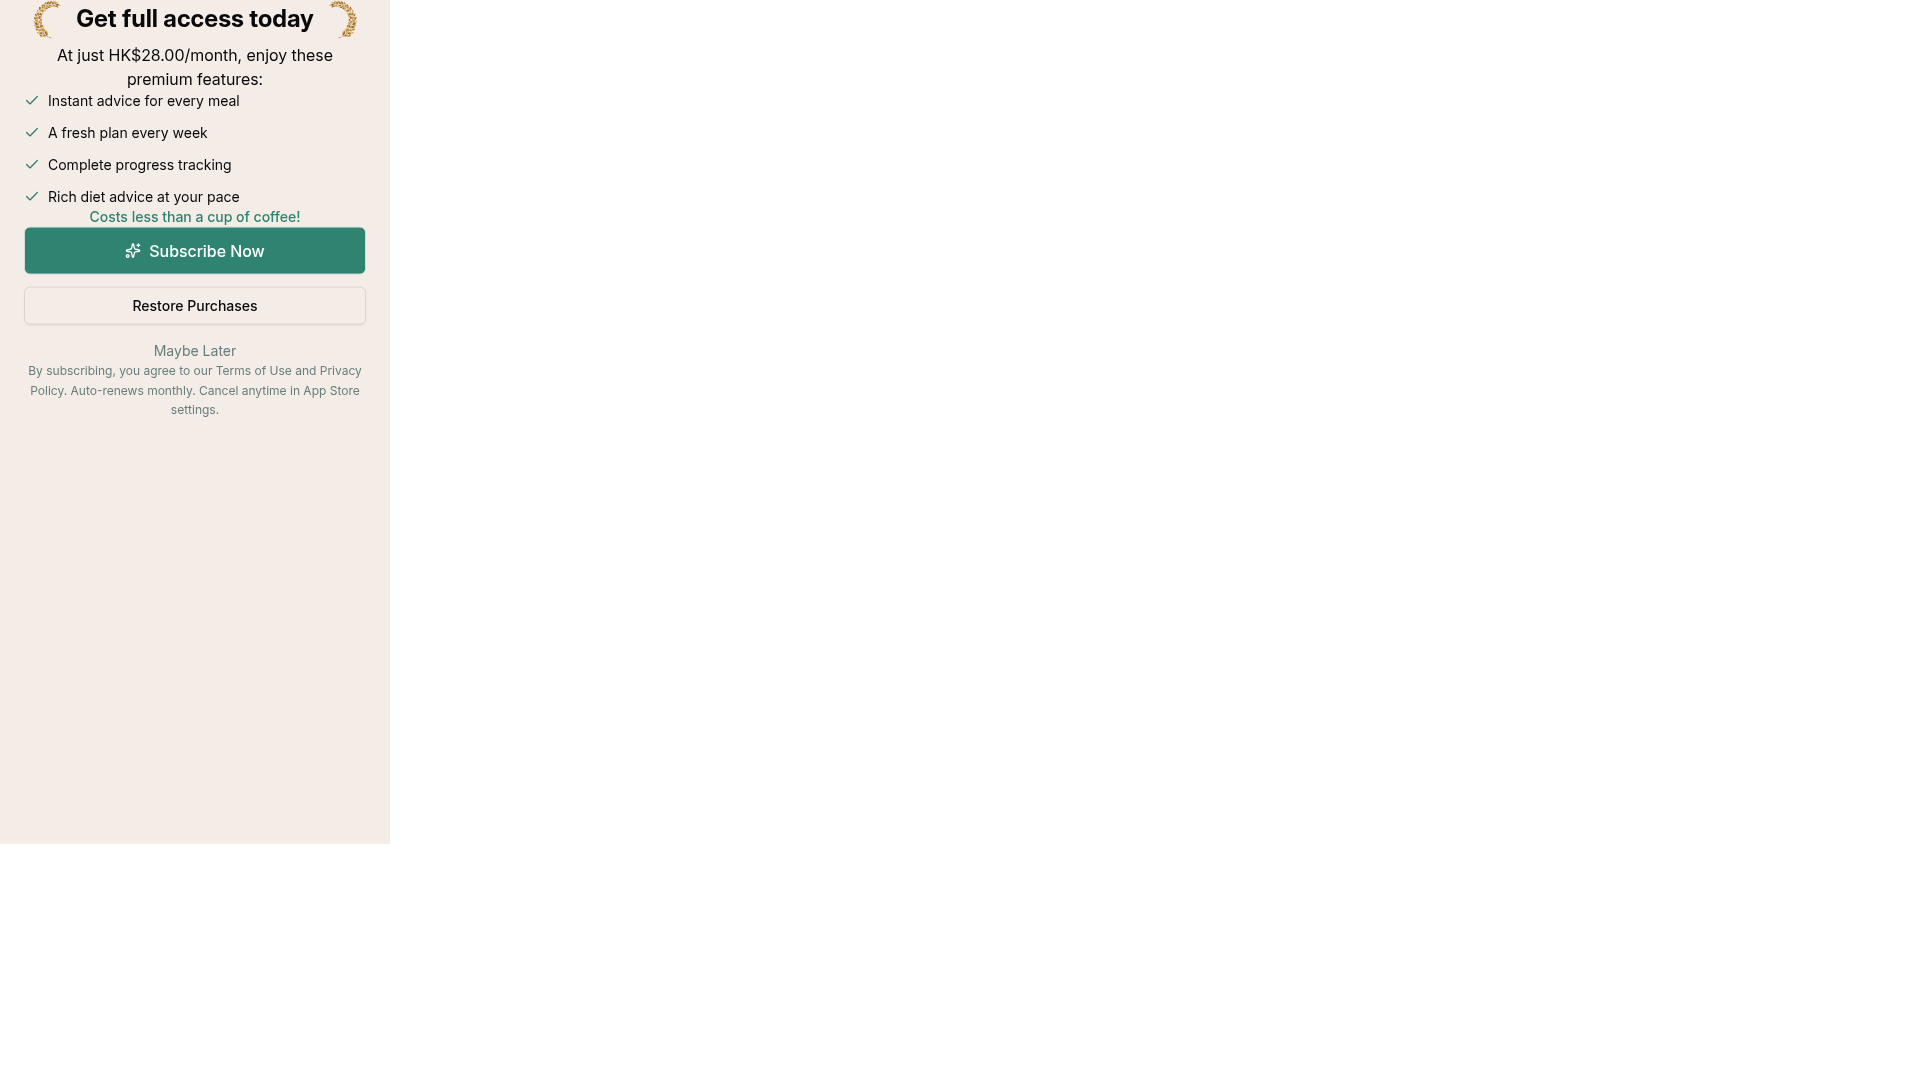
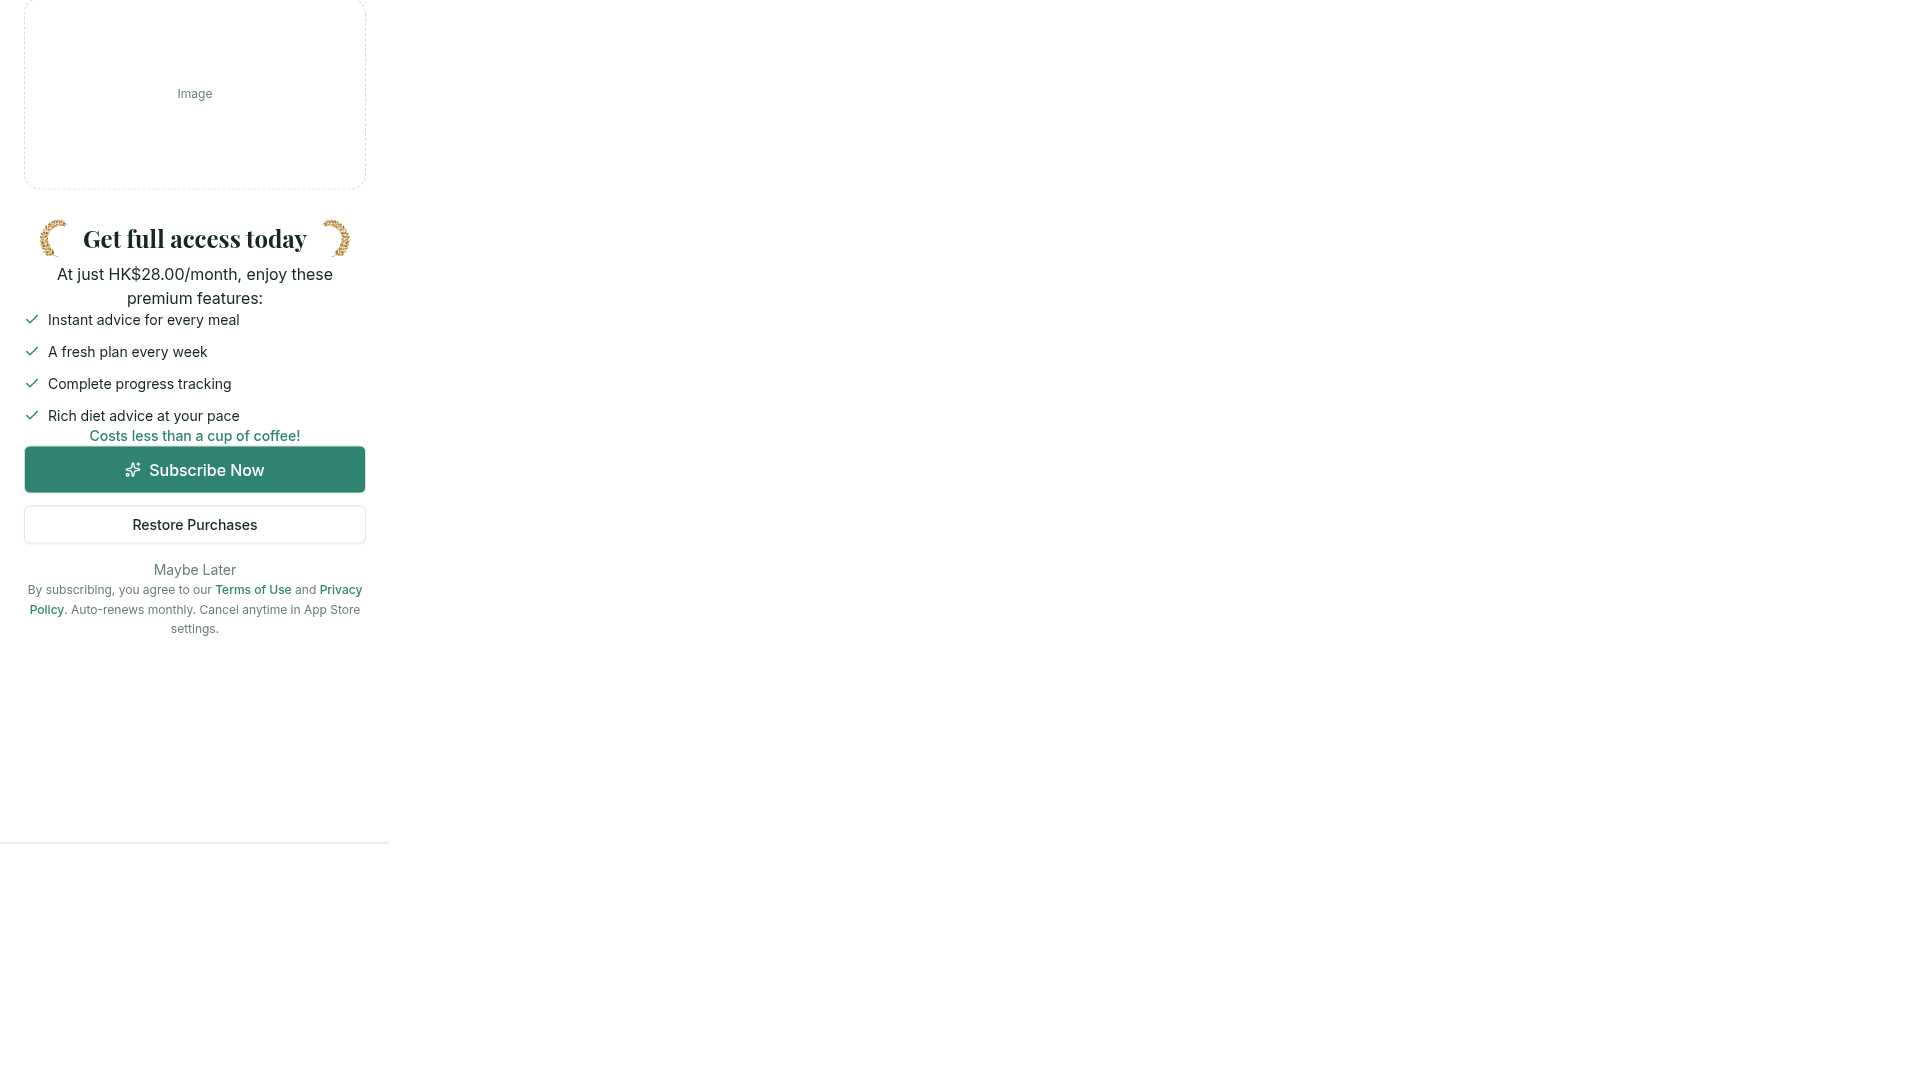
Update paywall modal with new styling and placeholder image
Update paywall modal styling, add a placeholder for the hero image, and adjust spacing.

Replit-Commit-Author: Agent
Replit-Commit-Session-Id: 5fb3db13-5617-42f7-b4ec-a9b90de9063e
Replit-Commit-Checkpoint-Type: full_checkpoint
Replit-Commit-Event-Id: 76b4fc88-e91a-4cac-9527-f6b0aa448901
Replit-Commit-Screenshot-Url: https://storage.googleapis.com/screenshot-production-us-central1/5322b358-f4bd-4c78-9be1-d8e103e57e4b/5fb3db13-5617-42f7-b4ec-a9b90de9063e/5LPq0w9
Replit-Helium-Checkpoint-Created: true

Changed region(s): [[0.0, 0.0, 0.1875, 0.4889], [0.0312, 0.5194, 0.1875, 0.5806]]

diff --git a/client/src/components/paywall-modal.tsx b/client/src/components/paywall-modal.tsx
@@ -111,10 +111,19 @@ export default function PaywallModal({ open, onClose, onPurchaseSuccess, lockApp
           animate={{ y: 0 }}
           exit={{ y: "100%" }}
           transition={{ type: "spring", damping: 28, stiffness: 280 }}
-          className="fixed inset-0 z-[100] bg-background overflow-y-auto"
+          className="fixed inset-0 z-[100] bg-popover text-popover-foreground overflow-y-auto"
           data-testid="paywall-modal"
         >
           <div className="min-h-full flex flex-col items-center px-6 pt-10 pb-10 max-w-md mx-auto">
+            <div
+              className="w-full rounded-2xl bg-muted/40 border border-dashed border-border flex items-center justify-center mb-6"
+              style={{ aspectRatio: "16 / 9" }}
+              data-testid="paywall-hero-image-slot"
+              aria-hidden="true"
+            >
+              <span className="text-xs text-muted-foreground">Image</span>
+            </div>
+
             <div className="flex items-center justify-center gap-3 w-full">
               <img
                 src={laurelImg}
@@ -125,6 +134,7 @@ export default function PaywallModal({ open, onClose, onPurchaseSuccess, lockApp
               />
               <h1
                 className="text-2xl font-bold text-center leading-tight"
+                style={{ fontFamily: "'Playfair Display', serif" }}
                 data-testid="text-paywall-title"
               >
                 {t("paywall.headline_title")}
@@ -140,7 +150,7 @@ export default function PaywallModal({ open, onClose, onPurchaseSuccess, lockApp
             </div>
 
             <p
-              className="text-base text-foreground/90 text-center mt-6"
+              className="text-base text-foreground/90 text-center mt-[72px]"
               data-testid="text-paywall-headline"
             >
               {headline}
@@ -156,7 +166,7 @@ export default function PaywallModal({ open, onClose, onPurchaseSuccess, lockApp
             </div>
 
             <p
-              className="text-sm font-medium text-primary text-center mt-5"
+              className="text-sm font-medium text-primary text-center mt-[60px]"
               data-testid="text-paywall-cup-of-coffee"
             >
               {t("paywall.cup_of_coffee")}
@@ -229,7 +239,7 @@ export default function PaywallModal({ open, onClose, onPurchaseSuccess, lockApp
                       href={TERMS_URL}
                       target="_blank"
                       rel="noreferrer"
-                      className="underline"
+                      className="text-primary underline font-medium hover:text-primary/80"
                       data-testid="link-paywall-terms"
                     />
                   ),
@@ -238,7 +248,7 @@ export default function PaywallModal({ open, onClose, onPurchaseSuccess, lockApp
                       href={PRIVACY_URL}
                       target="_blank"
                       rel="noreferrer"
-                      className="underline"
+                      className="text-primary underline font-medium hover:text-primary/80"
                       data-testid="link-paywall-privacy"
                     />
                   ),

diff --git a/artifacts/mockup-sandbox/src/.generated/mockup-components.ts b/artifacts/mockup-sandbox/src/.generated/mockup-components.ts
@@ -3,12 +3,12 @@ type ModuleMap = Record<string, () => Promise<Record<string, unknown>>>;
 export const modules: ModuleMap = {
   "./components/mockups/deep-dive/MonthlyDeepDive.tsx": () => import("../components/mockups/deep-dive/MonthlyDeepDive.tsx"),
   "./components/mockups/deep-dive/MonthlyDeepDiveZhHant.tsx": () => import("../components/mockups/deep-dive/MonthlyDeepDiveZhHant.tsx"),
+  "./components/mockups/health-info/DietTipDetail.tsx": () => import("../components/mockups/health-info/DietTipDetail.tsx"),
+  "./components/mockups/health-info/DietTipDetailZhHant.tsx": () => import("../components/mockups/health-info/DietTipDetailZhHant.tsx"),
   "./components/mockups/food-snap/AdviceState.tsx": () => import("../components/mockups/food-snap/AdviceState.tsx"),
   "./components/mockups/food-snap/AdviceStateZhHant.tsx": () => import("../components/mockups/food-snap/AdviceStateZhHant.tsx"),
   "./components/mockups/food-snap/ReviewState.tsx": () => import("../components/mockups/food-snap/ReviewState.tsx"),
   "./components/mockups/food-snap/ReviewStateZhHant.tsx": () => import("../components/mockups/food-snap/ReviewStateZhHant.tsx"),
-  "./components/mockups/health-info/DietTipDetail.tsx": () => import("../components/mockups/health-info/DietTipDetail.tsx"),
-  "./components/mockups/health-info/DietTipDetailZhHant.tsx": () => import("../components/mockups/health-info/DietTipDetailZhHant.tsx"),
   "./components/mockups/home/HomeTired.tsx": () => import("../components/mockups/home/HomeTired.tsx"),
   "./components/mockups/home/HomeTiredZhHant.tsx": () => import("../components/mockups/home/HomeTiredZhHant.tsx"),
   "./components/mockups/paywall/PaywallScreen.tsx": () => import("../components/mockups/paywall/PaywallScreen.tsx")
